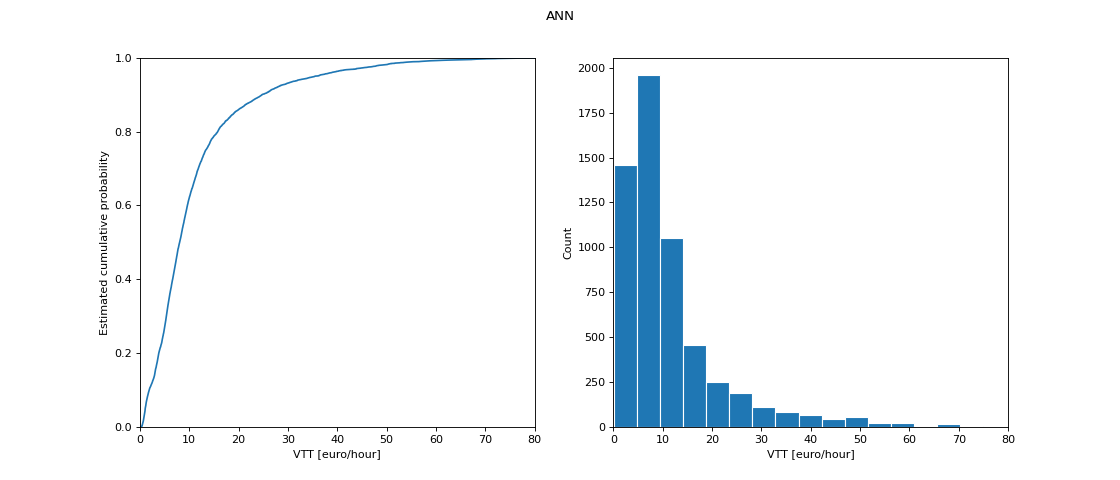
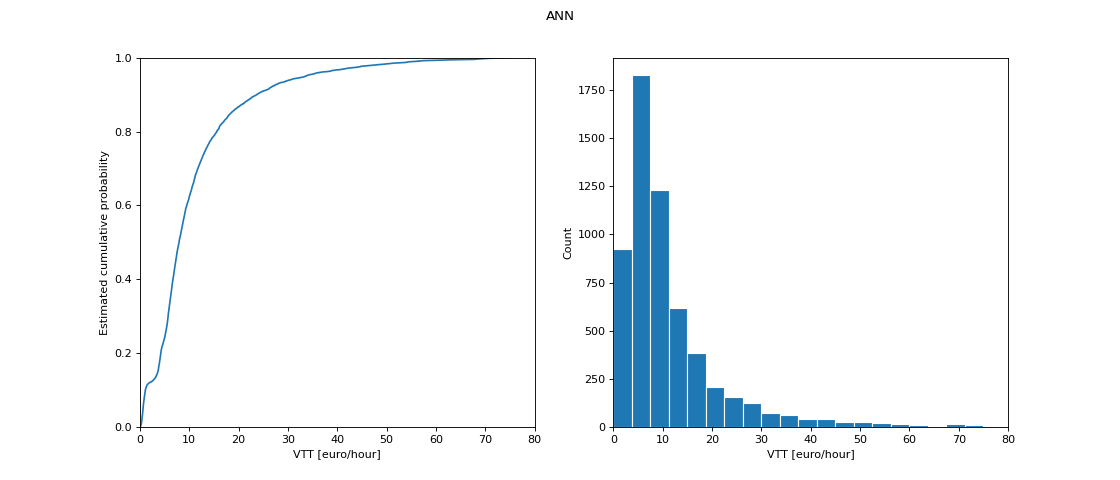
Release 1.0.4

diff --git a/src/py_np4vtt/model_ann_2.py b/src/py_np4vtt/model_ann_2.py
@@ -5,7 +5,6 @@
 #  The above copyright notice and this permission notice shall be included in all copies or substantial portions of the Software.
 #
 #  THE SOFTWARE IS PROVIDED "AS IS", WITHOUT WARRANTY OF ANY KIND, EXPRESS OR IMPLIED, INCLUDING BUT NOT LIMITED TO THE WARRANTIES OF MERCHANTABILITY, FITNESS FOR A PARTICULAR PURPOSE AND NONINFRINGEMENT. IN NO EVENT SHALL THE AUTHORS OR COPYRIGHT HOLDERS BE LIABLE FOR ANY CLAIM, DAMAGES OR OTHER LIABILITY, WHETHER IN AN ACTION OF CONTRACT, TORT OR OTHERWISE, ARISING FROM, OUT OF OR IN CONNECTION WITH THE SOFTWARE OR THE USE OR OTHER DEALINGS IN THE SOFTWARE.
-"""Modules to configure and estimate an ANN-based VTT model."""
 from dataclasses import dataclass
 
 from typing import List, Optional
@@ -25,25 +24,6 @@ from sklearn.preprocessing import StandardScaler
 
 @dataclass
 class ConfigANN:
-    """Configuration class of the ANN-based model.
-    
-    This class stores the configuration parameters of an ANN-based model 
-    and performs integrity checks before being passed to the model object.
-    
-    Parameters
-    ----------
-    hiddenLayerNodes : List[int]
-        Topology of the ANN. The length of `hiddenLayerNodes` is the number 
-        of hidden layers, and each element of the list is the number of 
-        nodes of the corresponding layer.
-    trainingRepeats : int
-        Number of estimation repeats of the ANN.
-    shufflesPerRepeat : int
-        Random shuffles of the data per repetition.
-
-    seed : Optional[int]
-        Random seed for the shuffling and estimation process.
-    """
     hiddenLayerNodes: List[int]
 
     trainingRepeats: int
@@ -65,44 +45,6 @@ class ConfigANN:
         return errorList
 
 class ModelANN:
-    """ANN model.
-    
-    This is the model class that prepares the data and estimates 
-    the ANN-based model [1].
-    
-    Parameters
-    -----------
-    params : ConfigANN
-        A configuration class of an ANN-based model.
-    arrays : ModelArrays
-        Model arrays created with `make_modelarrays`
-        
-    Attributes
-    ----------
-    X_train : numpy.ndarray
-        Input data for training (estimation), i.e. the BVTT of each choice set and the T-1'th choices
-    X_test : numpy.ndarray
-        Input data for testing (prediction)
-    X_full : numpy.ndarray
-        Full input data
-    y_train : numpy.ndarray
-        Output data for training, i.e. the T'th choice
-    y_test : numpy.ndarray
-        Output data for testing
-    y_full : numpy.ndarray
-        Full output data
-
-    Methods
-    -------
-    run():
-        Estimates the ANN-based model.
-    
-    References
-    ----------
-    [1] van Cranenburgh, Sander, and Marco Kouwenhoven. "An artificial neural 
-    network based method to uncover the value-of-travel-time distribution." 
-    Transportation 48.5 (2021): 2545-2583.
-    """
     def __init__(self, cfg: ConfigANN, arrays: ModelArrays):
         self.cfg = cfg
         self.arrays = arrays
@@ -126,13 +68,13 @@ class ModelANN:
         t = full_data_array[:,0]
         x = full_data_array[:,1:]
 
-        # Scale
+        # Scaler added
         scaler = StandardScaler()
         scaler.fit(x)
         x_scaled = scaler.transform(x)
 
         # Separate in train and test
-        X_train, X_test, y_train, y_test = train_test_split(x_scaled,t,test_size = 0.15,random_state=self.cfg.seed)
+        X_train, X_test, y_train, y_test = train_test_split(x_scaled,t,test_size = 0.15)
 
         self.X_train = X_train
         self.X_test = X_test
@@ -143,21 +85,6 @@ class ModelANN:
         self.scaler = scaler
 
     def run(self, verbose=True):
-        """Estimates the Rouwendal model.
-        
-        Parameters
-        ----------
-        None.
-
-        Returns
-        -------
-        ll_list : np.ndarray
-            The log-likelihood values per repetition.
-        r2_list : np.ndarray
-            The Rho-squared values per repetition.
-        vtt_list : np.ndarray
-            The estimated VTT per respondent and repetition.
-        """
         ll_list = []
         rho_sq = []
         y_predict = []
@@ -172,12 +99,12 @@ class ModelANN:
                 hidden_layer_sizes=self.cfg.hiddenLayerNodes,
                 activation='tanh',
                 tol=1e-4,
-                alpha=0.,
+                alpha=0,
                 n_iter_no_change=6,
                 max_iter=1000,
                 early_stopping=True,
                 validation_fraction=0.1275,
-                verbose=False,random_state=self.cfg.seed).fit(self.X_train,self.y_train)
+                verbose=False).fit(self.X_train,self.y_train)
 
             # Predict in test sample
             y_predict_train = clf.predict_proba(self.X_train)
@@ -215,9 +142,7 @@ class ModelANN:
 
             VTT_mid_list.append(VTT_mid)
 
-            if verbose:
-                print('(No VTT recovered for ' + str(no_vtt) + ' respondents)')
-
+            print(f'No VTT recovered for {no_vtt} respondents')
         ll_list = np.array(ll_list)
         r2_list = np.array(rho_sq)
         vtt_list = np.array(VTT_mid_list)

diff --git a/README.md b/README.md
@@ -1,4 +1,4 @@
-# PyNP4VTT
+# NP4VTT
 
 NP4VTT is a Python package that enables researchers to estimate and compare nonparametric models in a fast and convenient way. It comprises five nonparametric models for estimating the VTT distribution from data coming from two-attribute-two-alternative stated choice experiments:
 
